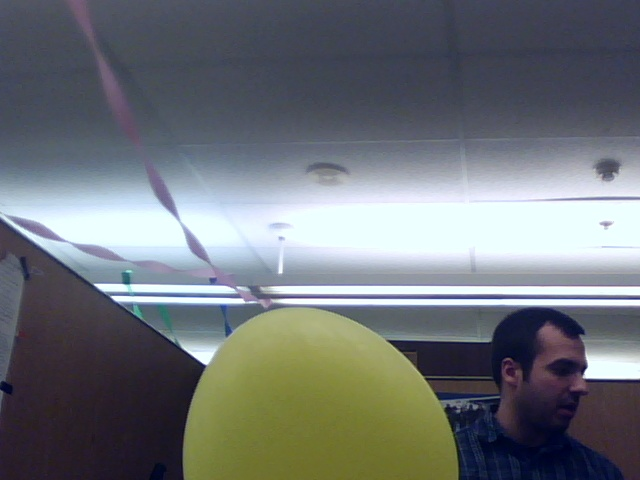
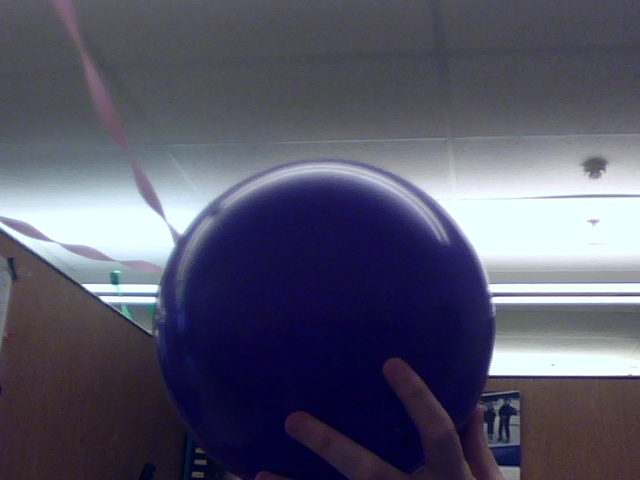
Un-rosified code, added opening/closing filters.

diff --git a/main.py b/main.py
@@ -15,13 +15,9 @@ Usage: Not yet determined
 from subprocess import call
 from sys import argv,exit
 from threading import Timer
-from team_software.msg import RandTheta
-
 import cv2
 import colordetection as cd
 import time
-import rospy
-
 
 def detection_loop(args):
 	for ctr,arg in enumerate(args):
@@ -29,50 +25,38 @@ def detection_loop(args):
 	cpp_file = args[0]; reconstruct_file = args[1]; rectified_file = args[2];
 	print cpp_file
 	call(cpp_file)
-	print reconstruct_file
-   	call([reconstruct_file])
+	#print reconstruct_file
+   	#call([reconstruct_file])
 	angle_out = cd.color_detect(['rectified.jpg'])
 	return angle_out
 
 def main():
- # Ros publisher stuff
-  pub = rospy.Publisher('RandTheta', RandTheta, queue_size=1)
-  rospy.init_node('nav_node')
-  payload = RandTheta(); payload.theta = 0; payload.r = 0
-  rate = rospy.Rate(10)
   # Not ROS publisher stuff
   stdin_args = ''
-	# temporary removal of call to cpp file until BB is fixed
-	#cpp_file = "./triclops/src/examples/common/stereoto3dpoints/stereoto3dpoints"
-	cpp_file = "./test.py"
-	reconstruct_file = "./triclops/src/examples/common/stereoto3dpoints/reconstruction.py"
-	rectified_file = 'rectified.jpg'
-	# Parse for inputs
-	if len(argv) == 2:
-		cpp_file = argv[1]
-	elif len(argv) == 3:
-		cpp_file = argv[1]
-		stdin_args = argv[2]
-		# Try to call C++ file
-		cpp_file = "./" + cpp_file
-		cpp_file = [cpp_file]
-	while not rospy.is_shutdown():
-		try:
-			args = [cpp_file,reconstruct_file,rectified_file,stdin_args]
-			payload.theta = detection_loop(args)  
-		except:
-			print 'Except block, default'
-			payload.theta = 90.0
-  # Publish this shit yo
-	pub.publish(payload)
-	rate.sleep()
+  # temporary removal of call to cpp file until BB is fixed
+  #cpp_file = "./triclops/src/examples/common/stereoto3dpoints/stereoto3dpoints"
+  cpp_file = "./test.py"
+  reconstruct_file = "./triclops/src/examples/common/stereoto3dpoints/reconstruction.py"
+  rectified_file = 'rectified.jpg'
+  # Parse for inputs
+  if len(argv) == 2:
+	  cpp_file = argv[1]
+  elif len(argv) == 3:
+	  cpp_file = argv[1]
+	  stdin_args = argv[2]
+	  # Try to call C++ file
+	  cpp_file = "./" + cpp_file
+	  cpp_file = [cpp_file]
+  while 1:
+	  try:
+		  args = [cpp_file,reconstruct_file,rectified_file,stdin_args]
+		  detection_loop(args)
+	  except:
+		  print 'Except block, default'
   
-  # Boiler plate code
+# Boiler plate code
 if __name__ == '__main__':
-    try: 
 	main()
-    except rospy.ROSInterruptException:
-	pass
 '''
 keeping all this incase I break everything - Jake 4/1
 <<<<<<< HEAD

diff --git a/colordetection.py b/colordetection.py
@@ -40,7 +40,7 @@ def color_detect(argv):
 	lower_blue   = np.array([100,45,40]); upper_blue   = np.array([161,114,130])
 	lower_green  = np.array([41,133,73]);  upper_green  = np.array([57,255,167])
 	lower_red    = np.array([174,50,50]); upper_red    = np.array([180,255,255])        
-	lower_yellow = np.array([16,71,117]); upper_yellow = np.array([38,189,189])
+	lower_yellow = np.array([27,106,145]); upper_yellow = np.array([33,192,196])
 
 	# BB2: lower_bball = np.array([2,111,0]); upper_bball = np.array([7,179,219])
 	lower_bball = np.array([0,216,9]); upper_bball = np.array([10,255,134])	        
@@ -69,14 +69,14 @@ def color_detect(argv):
 	purple_mask = cv2.inRange(hsvimg,lower_purple,upper_purple)
 
 	#Apply different morphological filters to get appropriate shape and remove noise (Needs testing):
-	close_kernel = cv2.getStructuringElement(cv2.MORPH_RECT,(10,10))	
-	open_kernel  = cv2.getStructuringElement(cv2.MORPH_RECT,(3,3))	
+	close_kernel = cv2.getStructuringElement(cv2.MORPH_RECT,(5,5))	
+	open_kernel  = cv2.getStructuringElement(cv2.MORPH_RECT,(5,5))	
 	#closing = cv2.morphologyEx(bluemask,cv2.MORPH_CLOSE,closekernel)
 	sball_opening = cv2.morphologyEx(sball_mask,cv2.MORPH_OPEN,open_kernel)	
 	bball_opening = cv2.morphologyEx(bball_mask,cv2.MORPH_OPEN,open_kernel)	
-	purple_opening = cv2.morphologyEx(purple_mask,cv2.MORPH_OPEN,open_kernel)
-	green_opening =  cv2.morphologyEx(green_mask,cv2.MORPH_OPEN,open_kernel)
-	yellow_opening = cv2.morphologyEx(yellow_mask,cv2.MORPH_OPEN,open_kernel)
+	purple_opening = cv2.morphologyEx(purple_mask,cv2.MORPH_OPEN,open_kernel); purple_opening = cv2.morphologyEx(purple_opening,cv2.MORPH_CLOSE,close_kernel);
+	green_opening =  cv2.morphologyEx(green_mask,cv2.MORPH_OPEN,open_kernel); green_opening = cv2.morphologyEx(green_opening, cv2.MORPH_CLOSE,close_kernel);
+	yellow_opening = cv2.morphologyEx(yellow_mask,cv2.MORPH_OPEN,open_kernel); yellow_opening = cv2.morphologyEx(yellow_opening, cv2.MORPH_CLOSE, close_kernel);
 	# Res pictures
 	res = cv2.bitwise_and(img,img,mask = bball_mask)
 	res2 = cv2.bitwise_and(img,img,mask = sball_mask)
@@ -125,7 +125,7 @@ def color_detect(argv):
 	# Lazy output logic: 
 	# If right > left, go left (return negative)
 	# Else go right (return positive)
-
+	'''
 	if right_side > left_side:
 		print "-90"
 		return -90.0
@@ -135,6 +135,7 @@ def color_detect(argv):
 	else:
 		print "-90"
 		return -90	
+	'''
 	'''
 	# Circle code
 	src = cv2.imread("yoloswag420.png")
